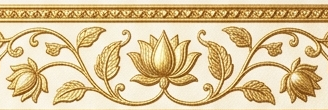
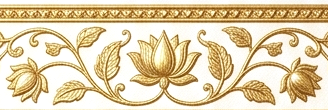
Eliminate pasted stickers; embed seamless 45-degree mitered 24K gold Pichwai Hashiya border directly into Wasli paper

diff --git a/styles.css b/styles.css
@@ -180,16 +180,14 @@ body { position: fixed; inset: 0; }
   display: none;
 }
 
-/* ── Authentic Indian Traditional Hashiya (Royal 24K Gold Foil & Gemstone Border Frame) ────────
-   Inspired by heritage Sabyasachi, Rajputana (Mewar), and Pichwai royal wedding folios:
-   - Genuine 3D embossed 24K gold leaf texture with tactile metallic relief
-   - Continuous Pichwai lotus creeper vine (bel) with blooming lotuses and micro-pearl borders
-   - Four magnificent corner medallions studded with faceted rubies, emeralds, and natural pearls
-   - Sized responsively to preserve generous breathing space for all typography and divine hands
+/* ── Authentic Indian Traditional Hashiya (Royal 24K Gold Foil Pichwai Border) ─
+   Printed directly into the Wasli paper grain using multiply blending:
+   - Zero drop-shadows or floating sticker badges (100% natural, embedded feel)
+   - Continuous 45° mitered 24K gold Pichwai lotus creeper vine (bel)
+   - Pure, uncompromised breathing room for typography, mandalas, and hands
 ────────────────────────────────────────────────────────────────────────────── */
 :root {
-  --border-band-thickness: clamp(26px, 6.2vw, 38px);
-  --border-medallion-size: clamp(52px, 12vw, 76px);
+  --border-band-thickness: clamp(18px, 4.2vw, 28px);
 }
 
 .mandala-border-frame {
@@ -198,9 +196,11 @@ body { position: fixed; inset: 0; }
   z-index: 12;
   pointer-events: none;
   box-sizing: border-box;
+  mix-blend-mode: multiply;
+  opacity: 0.92;
 }
 
-/* 4 Sinuous Pichwai Lotus Vine Edges with 24K Gold Foil Relief */
+/* 4 Sinuous Pichwai Lotus Vine Edges with 45° Mitered Seamless Corners */
 .frame-edge {
   position: absolute;
   pointer-events: none;
@@ -213,6 +213,7 @@ body { position: fixed; inset: 0; }
   height: var(--border-band-thickness);
   background: url('assets/invitation/royal-band-h.webp') repeat-x center top;
   background-size: auto 100%;
+  clip-path: polygon(0 0, 100% 0, calc(100% - var(--border-band-thickness)) 100%, var(--border-band-thickness) 100%);
 }
 
 .frame-bottom {
@@ -223,6 +224,7 @@ body { position: fixed; inset: 0; }
   background: url('assets/invitation/royal-band-h.webp') repeat-x center bottom;
   background-size: auto 100%;
   transform: scaleY(-1);
+  clip-path: polygon(var(--border-band-thickness) 0, calc(100% - var(--border-band-thickness)) 0, 100% 100%, 0 100%);
 }
 
 .frame-left {
@@ -233,6 +235,7 @@ body { position: fixed; inset: 0; }
   background: url('assets/invitation/royal-band-v.webp') repeat-y left center;
   background-size: 100% auto;
   transform: scaleX(-1);
+  clip-path: polygon(0 0, 100% var(--border-band-thickness), 100% calc(100% - var(--border-band-thickness)), 0 100%);
 }
 
 .frame-right {
@@ -242,47 +245,7 @@ body { position: fixed; inset: 0; }
   width: var(--border-band-thickness);
   background: url('assets/invitation/royal-band-v.webp') repeat-y right center;
   background-size: 100% auto;
-}
-
-/* 4 Corner Gemstone Medallions: Always 1:1 Aspect Ratio, Never Distorted */
-.mandala-corner {
-  position: absolute;
-  width: var(--border-medallion-size);
-  height: var(--border-medallion-size);
-  z-index: 14;
-  pointer-events: none;
-  filter: drop-shadow(0 2px 6px rgba(92, 61, 0, 0.35));
-}
-
-.mandala-corner img {
-  width: 100%;
-  height: 100%;
-  display: block;
-  border-radius: 50%;
-}
-
-.corner-tl {
-  top: calc(var(--border-band-thickness) * 0.5 - var(--border-medallion-size) * 0.5);
-  left: calc(var(--border-band-thickness) * 0.5 - var(--border-medallion-size) * 0.5);
-}
-
-.corner-tr {
-  top: calc(var(--border-band-thickness) * 0.5 - var(--border-medallion-size) * 0.5);
-  right: calc(var(--border-band-thickness) * 0.5 - var(--border-medallion-size) * 0.5);
-}
-
-.corner-bl {
-  bottom: calc(var(--border-band-thickness) * 0.5 - var(--border-medallion-size) * 0.5);
-  left: calc(var(--border-band-thickness) * 0.5 - var(--border-medallion-size) * 0.5);
-}
-
-.corner-br {
-  bottom: calc(var(--border-band-thickness) * 0.5 - var(--border-medallion-size) * 0.5);
-  right: calc(var(--border-band-thickness) * 0.5 - var(--border-medallion-size) * 0.5);
-}
-
-.frame-mehraab {
-  display: none;
+  clip-path: polygon(0 var(--border-band-thickness), 100% 0, 100% 100%, 0 calc(100% - var(--border-band-thickness)));
 }
 
 

diff --git a/index.html b/index.html
@@ -16,7 +16,7 @@
   <link rel="preload" as="image" href="assets/invitation/petals/pink_petal_1.webp" fetchpriority="low"/>
   <link rel="preload" as="image" href="assets/invitation/petals/pink_petal_2.webp" fetchpriority="low"/>
   <link rel="preload" as="image" href="assets/invitation/petals/pink_petal_3.webp" fetchpriority="low"/>
-  <link rel="stylesheet" href="styles.css?v=20261102_02"/>
+  <link rel="stylesheet" href="styles.css?v=20261102_03"/>
 </head>
 <body>
 
@@ -50,23 +50,13 @@
       <!-- Layer 1: Champagne ivory textured base -->
       <div class="paper-bg" aria-hidden="true"></div>
 
-      <!-- Layer 1a: Authentic Indian Traditional Mandala & Lotus Vine Border Frame -->
+      <!-- Layer 1a: Authentic Indian Traditional Hashiya (24K Gold Foil Pichwai Border Frame) -->
       <div class="mandala-border-frame" aria-hidden="true">
-        <!-- 4 Repeating Sinuous Lotus Vine Edges -->
+        <!-- 4 Mitered Sinuous Lotus Vine Edges (Printed Directly into Wasli Paper) -->
         <div class="frame-edge frame-top"></div>
         <div class="frame-edge frame-bottom"></div>
         <div class="frame-edge frame-left"></div>
         <div class="frame-edge frame-right"></div>
-
-        <!-- 4 Corner Gemstone Medallions (Strict 1:1 Aspect Ratio) -->
-        <div class="mandala-corner corner-tl"><img src="assets/invitation/royal-medallion.webp" alt=""/></div>
-        <div class="mandala-corner corner-tr"><img src="assets/invitation/royal-medallion.webp" alt=""/></div>
-        <div class="mandala-corner corner-bl"><img src="assets/invitation/royal-medallion.webp" alt=""/></div>
-        <div class="mandala-corner corner-br"><img src="assets/invitation/royal-medallion.webp" alt=""/></div>
-
-        <!-- Center Top & Bottom Rajput Mehraab (Arch Cartouches) -->
-        <div class="frame-mehraab mehraab-top"><img src="assets/invitation/mandala-mehraab.svg" alt=""/></div>
-        <div class="frame-mehraab mehraab-bottom"><img src="assets/invitation/mandala-mehraab.svg" alt=""/></div>
       </div>
 
       <!-- Layer 1b: Dedicated Top & Bottom 24K Gold Mandalas — 100% Guaranteed Viewport Framing on ALL Devices -->
@@ -196,6 +186,6 @@
 
   <script src="wedding-data.js"></script>
   <script src="https://cdnjs.cloudflare.com/ajax/libs/gsap/3.12.5/gsap.min.js"></script>
-  <script src="invitation.js?v=20261102_02"></script>
+  <script src="invitation.js?v=20261102_03"></script>
 </body>
 </html>
